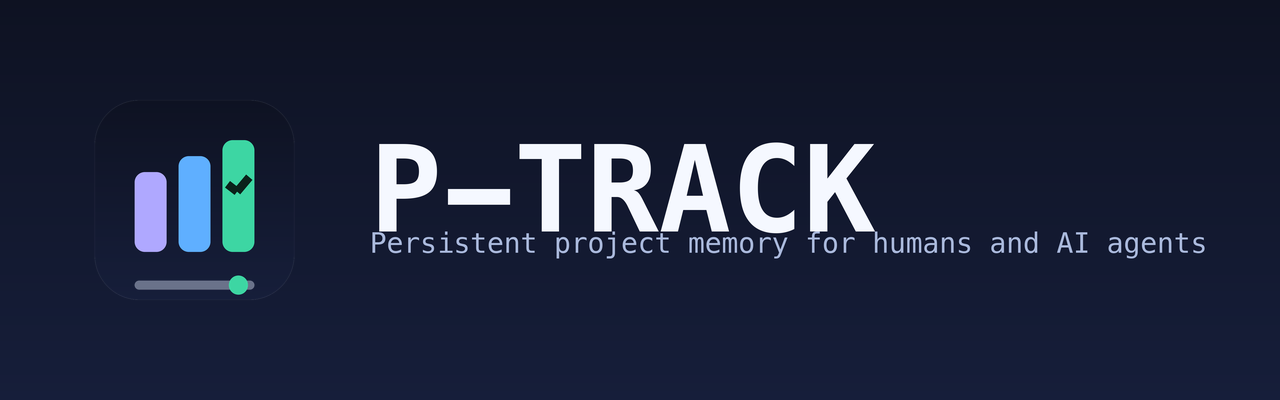
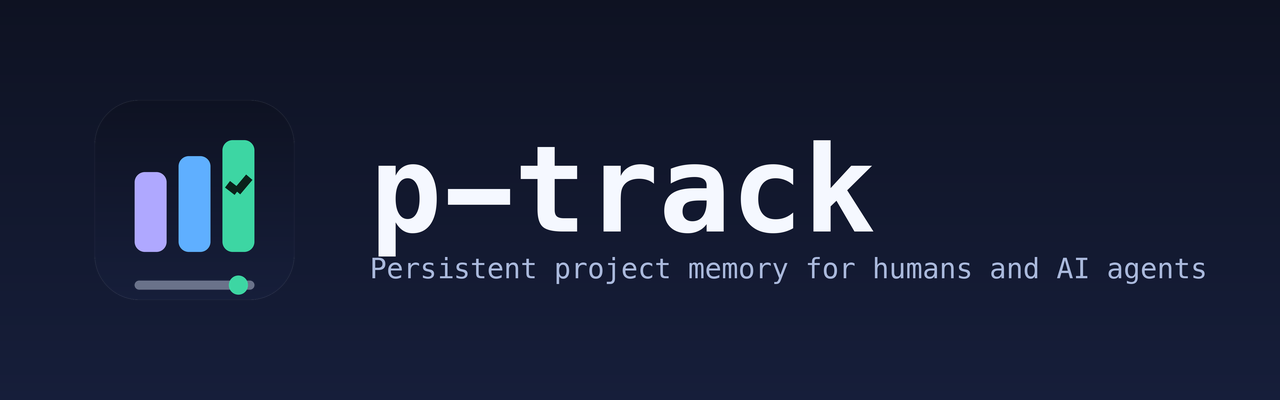
fix(brand): use lowercase p-track name (#38)

Changed region(s): [[0.2812, 0.33, 0.9375, 0.72]]

diff --git a/frontend/index.html b/frontend/index.html
@@ -4,7 +4,7 @@
     <meta charset="UTF-8" />
     <meta name="viewport" content="width=device-width, initial-scale=1.0" />
     <meta name="color-scheme" content="dark light" />
-    <title>P-TRACK Project Workspace</title>
+    <title>p-track Project Workspace</title>
     <script>
       // Apply the stored or OS theme before first paint to avoid a flash.
       (() => {
@@ -28,7 +28,7 @@
         <div class="brand sidebar-brand">
           <span class="brand-mark" aria-hidden="true"></span>
           <div>
-            <p class="eyebrow">P-TRACK</p>
+            <p class="eyebrow">p-track</p>
             <h1 id="project-name" tabindex="-1">Project workspace</h1>
           </div>
         </div>
@@ -149,10 +149,10 @@
           aria-live="polite"
         >
           <div class="state-card">
-            <p id="workspace-state-eyebrow" class="eyebrow">P-TRACK projects</p>
+            <p id="workspace-state-eyebrow" class="eyebrow">p-track projects</p>
             <h2 id="workspace-state-heading" tabindex="-1">Choose a project</h2>
             <p id="workspace-state-detail" class="state-detail">
-              Open a directory containing a P-TRACK project to begin.
+              Open a directory containing a p-track project to begin.
             </p>
             <button id="state-open-project-button" type="button">Open Project…</button>
             <div class="recent-projects-section">

diff --git a/frontend/src/app.js b/frontend/src/app.js
@@ -864,8 +864,8 @@ function renderIntelligence() {
   elements.projectRoot.textContent = project.root;
   const storage = project.storage;
   elements.storageStatus.textContent = storage.exists
-    ? `P-TRACK format v${storage.formatVersion} · ${compactBytes(storage.sizeBytes)} · writer ${storage.lastWriteVersion || "unknown"}`
-    : storage.error || "P-TRACK storage unavailable";
+    ? `p-track format v${storage.formatVersion} · ${compactBytes(storage.sizeBytes)} · writer ${storage.lastWriteVersion || "unknown"}`
+    : storage.error || "p-track storage unavailable";
   elements.snapshotBounds.replaceChildren();
   for (const [label, bound] of Object.entries(tracking.bounds || {})) {
     elements.snapshotBounds.append(
@@ -1149,7 +1149,7 @@ function openRename(task) {
 function openMemory(task) {
   dialogMode = "memory";
   editingTask = task;
-  elements.dialogEyebrow.textContent = "P-TRACK memory";
+  elements.dialogEyebrow.textContent = "p-track memory";
   elements.dialogHeading.textContent = `Record context for task #${task.id}`;
   elements.dialogLabel.textContent = "Decision or observation";
   elements.dialogLabel.htmlFor = "dialog-note";

diff --git a/frontend/src/workspace/presentation.ts b/frontend/src/workspace/presentation.ts
@@ -12,9 +12,9 @@ export function workspaceStateCopy(
 ): WorkspaceCopy {
   const copy: Record<WorkspaceStatus, WorkspaceCopy> = {
     welcome: {
-      eyebrow: "P-TRACK projects",
+      eyebrow: "p-track projects",
       heading: "Choose a project",
-      detail: "Open a directory containing a P-TRACK project to begin.",
+      detail: "Open a directory containing a p-track project to begin.",
     },
     loading: {
       eyebrow: "Project workspace",

diff --git a/frontend/src/style.css b/frontend/src/style.css
@@ -1,4 +1,4 @@
-/* P-TRACK design system — deep space theme with a mint brand accent. */
+/* p-track design system — deep space theme with a mint brand accent. */
 /* The dark palette lives in :root; [data-theme="light"] overrides it.   */
 
 /* ---------------------------------------------------------------- tokens */

diff --git a/internal/tui/view.go b/internal/tui/view.go
@@ -63,7 +63,7 @@ func (d dashboard) View() string {
 // space between. Left rail (reading position) carries identity and the goal;
 // right rail carries the menu hint and the 2×2 stat grid, right edges flush.
 //
-//	▉P-TRACK · project▉▒░fade                                        ? menu
+//	▉p-track · project▉▒░fade                                        ? menu
 //	✦ Goal line one …                        milestones ▰▰▱▱▱  1/2  plans …
 //	  goal line two …                        tasks      ▰▱▱▱▱  1/5  issues …
 //	───────────────────────────── gradient rule ────────────────────────────
@@ -72,7 +72,7 @@ func (d dashboard) header(w int) string {
 	// rightward toward the terminal background.
 	name := filepath.Base(filepath.Dir(filepath.Dir(d.dbPath)))
 	bandText := lipgloss.NewStyle().Bold(true).Foreground(cInk).Background(cAccent)
-	pill := bandText.Render(" P-TRACK · " + name + " ")
+	pill := bandText.Render(" p-track · " + name + " ")
 	right := hint("?", "menu")
 	fadeW := min(24, max(0, w-lipgloss.Width(pill)-lipgloss.Width(right)-2))
 	row1 := pill + bgFade(fadeW, gradAccent, gradNight)
@@ -202,6 +202,8 @@ func blockWordmark(w int) string {
 	if w < 76 {
 		width := min(58, max(1, w))
 		rule := gradientText(strings.Repeat("━", width), gradDarkCyan, gradBlueGreen)
+		// The compact wordmark follows the same all-caps treatment as the
+		// large ASCII artwork. Product names outside artwork stay lowercase.
 		name := lipgloss.NewStyle().Width(width).Align(lipgloss.Center).Bold(true).Foreground(cAccent).Render("P-TRACK")
 		return lipgloss.JoinVertical(lipgloss.Center, rule, name, rule)
 	}
@@ -493,7 +495,7 @@ func (d dashboard) viewMaintenance(w, h int) string {
 		kv("Writer", orUnset(d.meta.LastWriteVersion)),
 		kv("Updated", d.meta.UpdatedAt.Format("2006-01-02 15:04")),
 		"",
-		dimStyle.Render("P-TRACK opens the database only for each action,"),
+		dimStyle.Render("p-track opens the database only for each action,"),
 		dimStyle.Render("so agents and this dashboard can work side by side."),
 	}, "\n")
 

diff --git a/internal/terminal/profile_test.go b/internal/terminal/profile_test.go
@@ -338,7 +338,7 @@ func TestBuildEnvironmentAppliesTerminalDefaults(t *testing.T) {
 		"PATH":         "/usr/bin",
 		"TERM":         "xterm-256color",
 		"COLORTERM":    "truecolor",
-		"TERM_PROGRAM": "P-TRACK",
+		"TERM_PROGRAM": "p-track",
 		"UNCHANGED":    "value",
 	}
 	if locale := defaultUTF8Locale(runtime.GOOS); locale != "" {
@@ -436,14 +436,14 @@ func TestBuildEnvironmentAppliesSafeExplicitOverridesWithoutMutation(t *testing.
 	overrides := map[string]string{
 		"TERM":         "screen-256color",
 		"COLORTERM":    "24bit",
-		"TERM_PROGRAM": "P-TRACK-test",
+		"TERM_PROGRAM": "p-track-test",
 		"CUSTOM":       "custom value",
 	}
 	wantBase := append([]string(nil), base...)
 	wantOverrides := map[string]string{
 		"TERM":         "screen-256color",
 		"COLORTERM":    "24bit",
-		"TERM_PROGRAM": "P-TRACK-test",
+		"TERM_PROGRAM": "p-track-test",
 		"CUSTOM":       "custom value",
 	}
 
@@ -498,7 +498,7 @@ func TestBuildEnvironmentHandlesWindowsKeysAndDriveDirectoryEntries(t *testing.T
 		"PATH":         `C:\Tools`,
 		"TERM":         "screen-256color",
 		"COLORTERM":    "truecolor",
-		"TERM_PROGRAM": "P-TRACK",
+		"TERM_PROGRAM": "p-track",
 	}
 	if !reflect.DeepEqual(values, want) {
 		t.Fatalf("environment values:\ngot:  %#v\nwant: %#v", values, want)

diff --git a/internal/gui/shell_integration.go b/internal/gui/shell_integration.go
@@ -10,7 +10,7 @@ import (
 )
 
 // Managed block markers in ~/.zprofile. Everything between them belongs to
-// P-TRACK and is rewritten or detected as a whole, so repeated installs are
+// p-track and is rewritten or detected as a whole, so repeated installs are
 // idempotent and never duplicate the PATH entry.
 const (
 	shellPathMarkerBegin = "# >>> ptrack cli >>>"
@@ -92,7 +92,7 @@ func ensureShellPath(profile, binDir string) (bool, error) {
 		block.WriteString("\n")
 	}
 	block.WriteString(shellPathMarkerBegin + "\n")
-	block.WriteString("# Added by P-TRACK: makes the `ptrack` CLI available in new terminal sessions.\n")
+	block.WriteString("# Added by p-track: makes the `ptrack` CLI available in new terminal sessions.\n")
 	block.WriteString(fmt.Sprintf("export PATH=\"$PATH:%s\"\n", binDir))
 	block.WriteString(shellPathMarkerEnd + "\n")
 	file, err := os.OpenFile(profile, os.O_APPEND|os.O_CREATE|os.O_WRONLY, 0o644)

diff --git a/internal/gui/shell_integration_test.go b/internal/gui/shell_integration_test.go
@@ -9,7 +9,7 @@ import (
 
 func TestEnsureShellPathAppendsManagedBlock(t *testing.T) {
 	profile := filepath.Join(t.TempDir(), ".zprofile")
-	changed, err := ensureShellPath(profile, "/Applications/P-TRACK.app/Contents/MacOS")
+	changed, err := ensureShellPath(profile, "/Applications/p-track.app/Contents/MacOS")
 	if err != nil {
 		t.Fatalf("ensureShellPath: %v", err)
 	}
@@ -24,7 +24,7 @@ func TestEnsureShellPathAppendsManagedBlock(t *testing.T) {
 	if !strings.Contains(content, shellPathMarkerBegin) || !strings.Contains(content, shellPathMarkerEnd) {
 		t.Fatalf("managed markers missing:\n%s", content)
 	}
-	if !strings.Contains(content, `export PATH="$PATH:/Applications/P-TRACK.app/Contents/MacOS"`) {
+	if !strings.Contains(content, `export PATH="$PATH:/Applications/p-track.app/Contents/MacOS"`) {
 		t.Fatalf("PATH entry missing:\n%s", content)
 	}
 }

diff --git a/internal/cli/hint.go b/internal/cli/hint.go
@@ -3,9 +3,9 @@ package cli
 // NoProjectHint is the friendly guidance shown when `ptrack` is run with no
 // subcommand outside any ptrack project, instead of a bare error.
 func NoProjectHint() string {
-	return "P-TRACK  ·  persistent project memory\n" +
+	return "p-track  ·  persistent project memory\n" +
 		"──────────────────────────────────────\n\n" +
-		"No P-TRACK project here yet.\n\n" +
+		"No p-track project here yet.\n\n" +
 		"GET STARTED\n" +
 		"  ptrack init                 create one in this directory (or the git root)\n" +
 		"  ptrack init --goal \"...\"     create one and set the goal\n" +

diff --git a/internal/cli/root.go b/internal/cli/root.go
@@ -28,8 +28,8 @@ func defaultRunNoArgs() error {
 func newRootCmd() *cobra.Command {
 	root := &cobra.Command{
 		Use:   "ptrack",
-		Short: "P-TRACK keeps project plans alive across human and AI sessions",
-		Long: "P-TRACK keeps project plans alive across human and AI sessions. It stores\n" +
+		Short: "p-track keeps project plans alive across human and AI sessions",
+		Long: "p-track keeps project plans alive across human and AI sessions. It stores\n" +
 			"goals, plans, tasks, issues, milestones, notes, and commit context in an embedded\n" +
 			"bbolt database so a fresh agent can reload project context. Every subcommand is\n" +
 			"non-interactive and exits non-zero on error.",

diff --git a/assets/brand/generate_icons.py b/assets/brand/generate_icons.py
@@ -1,5 +1,5 @@
 #!/usr/bin/env python3
-"""Generate the P-TRACK brand icon set and README banner.
+"""Generate the p-track brand icon set and README banner.
 
 Brand concept: a dark terminal-style squircle holding three kanban columns
 (todo / doing / done) in the brand palette, finished with a check on the done
@@ -176,7 +176,7 @@ def draw_banner(width: int, height: int, out: Path, social: bool = False) -> Non
 
     title_size = round(H * (0.30 if not social else 0.24))
     title_font = menlo(title_size)
-    title = "P-TRACK"
+    title = "p-track"
     tagline = "Persistent project memory for humans and AI agents"
 
     # Shrink the tagline until it fits the canvas width.

diff --git a/internal/tui/tui_test.go b/internal/tui/tui_test.go
@@ -111,7 +111,7 @@ func TestCommandMenuNavigatesAndExposesMaintenance(t *testing.T) {
 		t.Fatal("? should open the command menu")
 	}
 	view := ansi.Strip(d.View())
-	for _, want := range []string{"P-TRACK", "Command menu", "Board", "Edit selected", "Move task", "Convert task to plan", "Create backup"} {
+	for _, want := range []string{"p-track", "Command menu", "Board", "Edit selected", "Move task", "Convert task to plan", "Create backup"} {
 		if !strings.Contains(view, want) {
 			t.Errorf("menu missing %q:\n%s", want, view)
 		}
